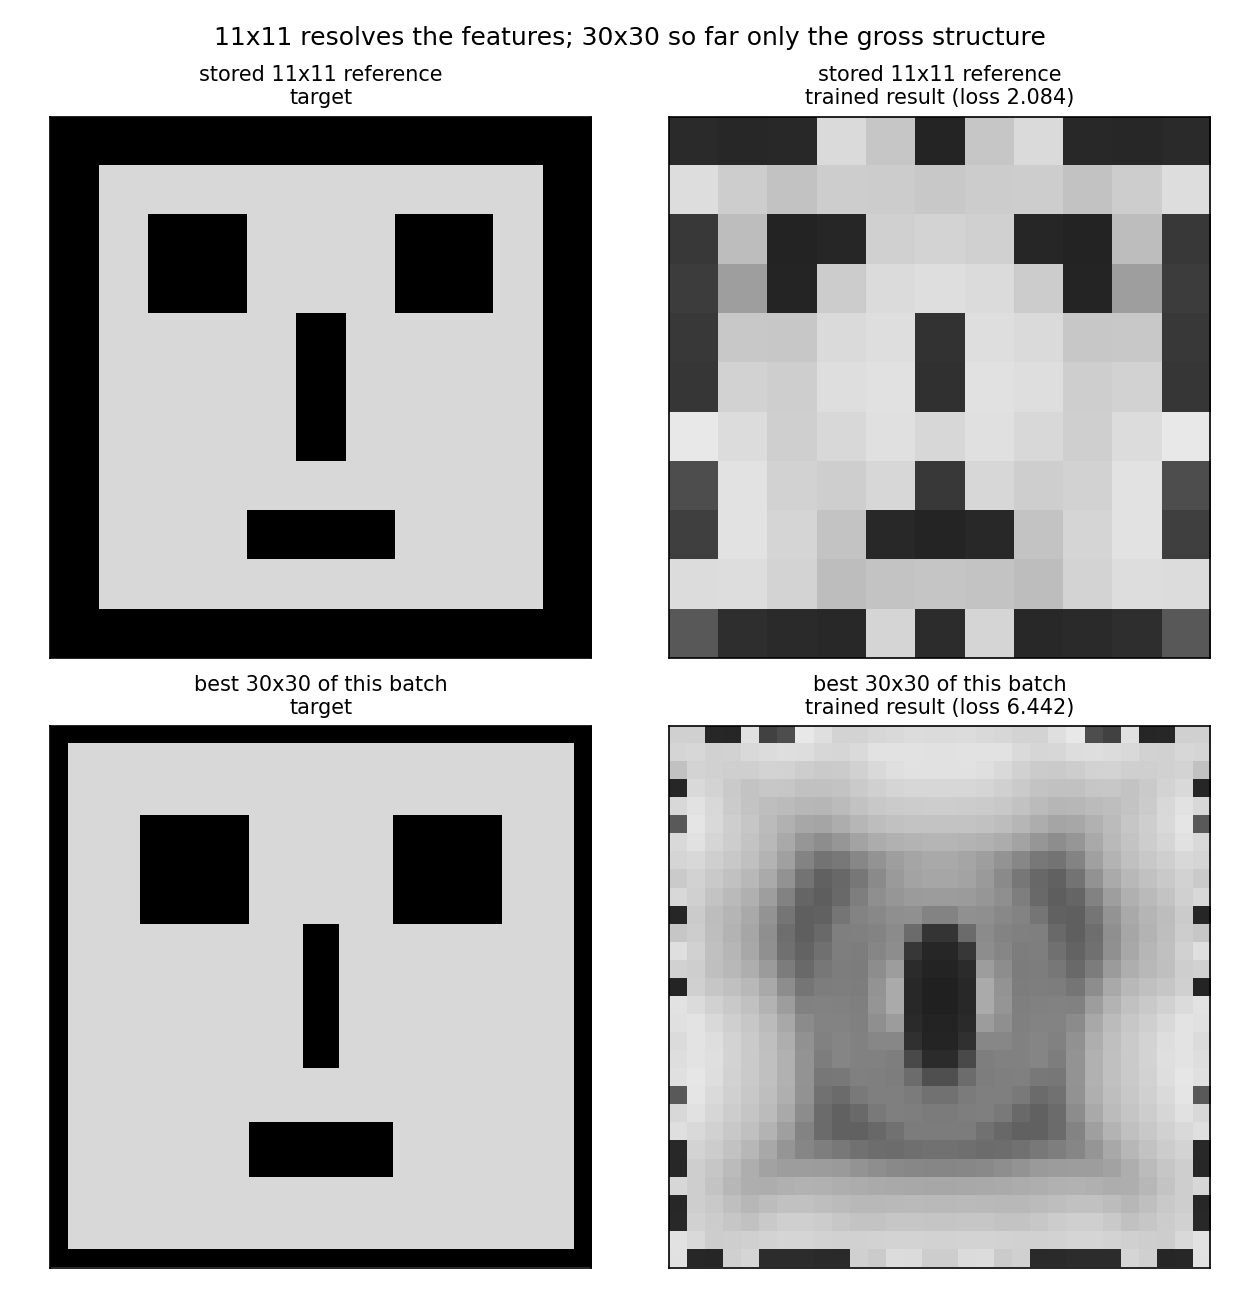
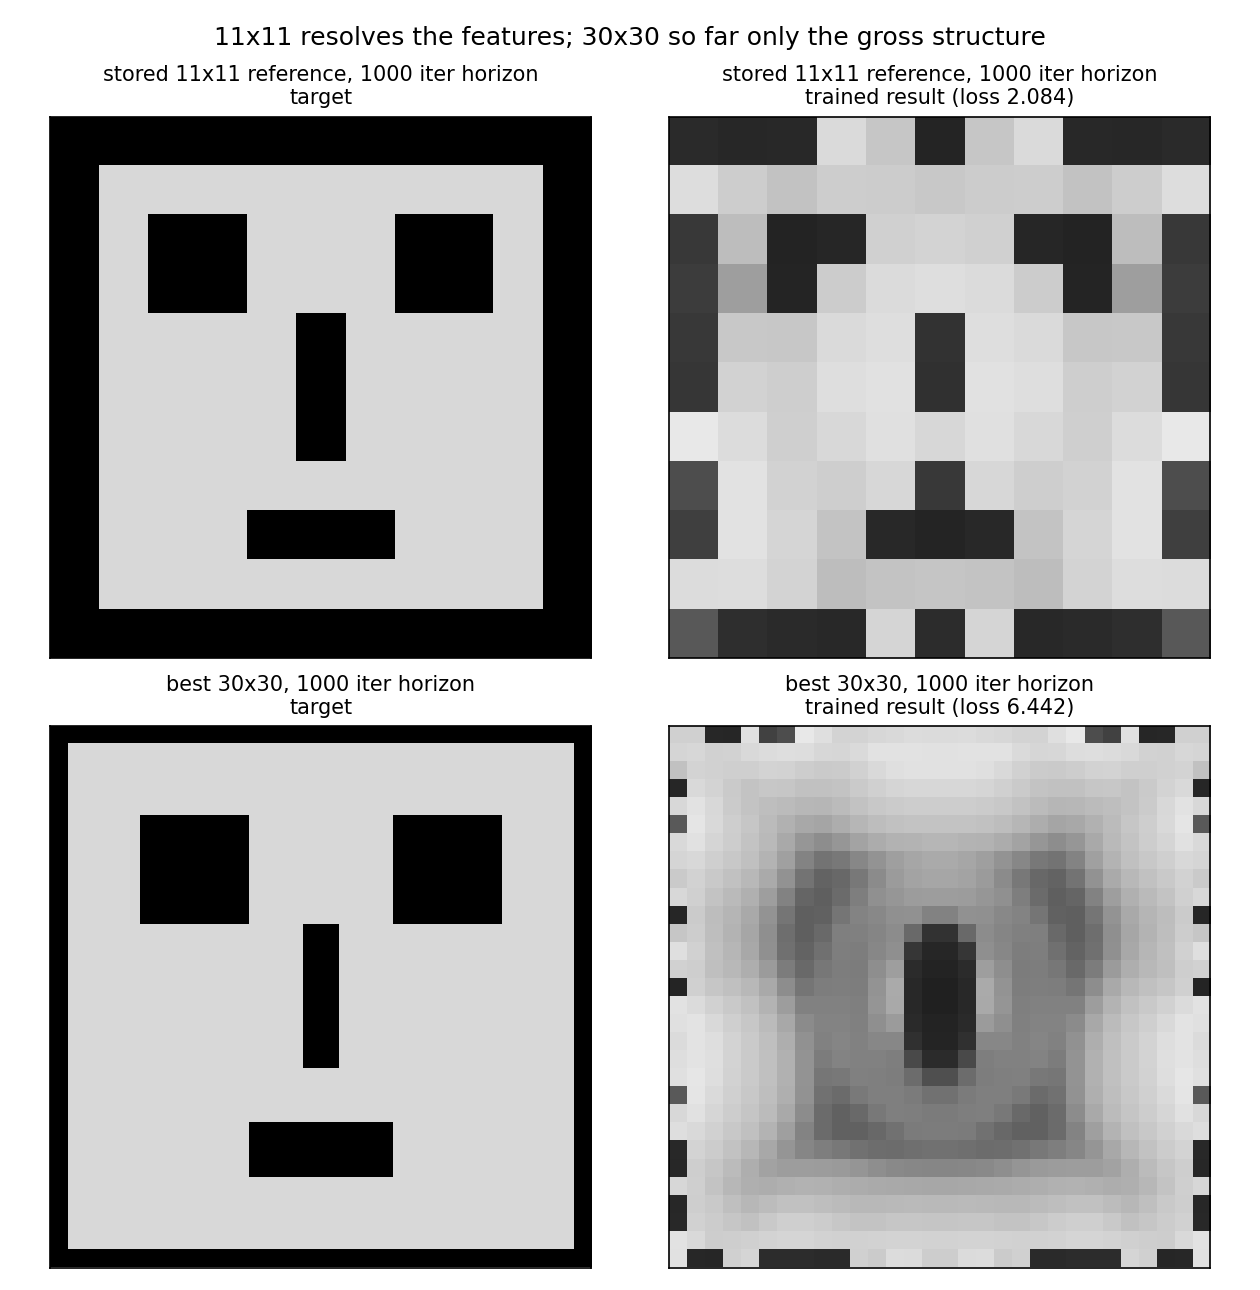
Name the horizon on the face scale comparison
The figure picks whichever stored 30x30 model scores best, which was safe while every 30x30 run
shared the 1000 iteration horizon. Runs at 2000 and 3000 are now queued, and one of those files
scoring best would have been drawn against the 11x11 reference as though the two were measured the
same way. They are not: a different horizon evaluates a differently matured pattern over a different
window, so the losses do not compare.

Naming the horizon on each panel makes the mismatch visible in the figure rather than leaving it to
be remembered.

diff --git a/compareFaceScales.py b/compareFaceScales.py
@@ -19,7 +19,7 @@ def load(path):
     rows, cols = p['latticeDims']
     return (tp['targetVmem'].detach().numpy().reshape(rows, cols) * 1000.0,
             tp['actualVmem'].detach().numpy().reshape(rows, cols) * 1000.0,
-            float(tp['bestLoss']), rows, cols)
+            float(tp['bestLoss']), rows, cols, int(p['simParameters']['numSimIters']))
 
 # best 30x30 face run, excluding other targets' files and other lattice sizes
 best = None
@@ -32,21 +32,22 @@ for f in sorted(glob.glob('data/bestModelParameters_fieldVector_*.dat')):
         continue
     L = float(p['trainParameters']['bestLoss'])
     if best is None or L < best[1]:
-        best = (f, L)
+        best = (f, L, int(p['simParameters']['numSimIters']))
 
 panels = [('data/StigmergicModelParameters.dat', 'stored 11x11 reference'),
-          (best[0], f'best 30x30 of this batch')]
+          (best[0], 'best 30x30')]
 fig, axes = plt.subplots(2, 2, figsize=(8.4, 8.6))
 for row, (path, label) in enumerate(panels):
-    target, actual, loss, rows, cols = load(path)
+    target, actual, loss, rows, cols, horizon = load(path)
     for col, (img, what) in enumerate([(target, 'target'), (actual, 'trained result')]):
         ax = axes[row][col]
         ax.imshow(img, cmap='gray', vmin=min(img.min(), -60), vmax=0)
         ax.set_xticks([]); ax.set_yticks([])
-        ax.set_title(f'{label}\n{what}' + (f' (loss {loss:.4g})' if col else ''), fontsize=10)
+        ax.set_title(f'{label}, {horizon} iter horizon\n{what}'
+                     + (f' (loss {loss:.4g})' if col else ''), fontsize=10)
 fig.suptitle('11x11 resolves the features; 30x30 so far only the gross structure', fontsize=12)
 fig.tight_layout()
 fig.savefig('figures/faceScaleComparison.png', dpi=150)
 print(f"  11x11 reference: data/StigmergicModelParameters.dat")
-print(f"  best 30x30:      {best[0]} (loss {best[1]:.6g})")
+print(f"  best 30x30:      {best[0]} (loss {best[1]:.6g}, horizon {best[2]} iters)")
 print("  wrote figures/faceScaleComparison.png")
